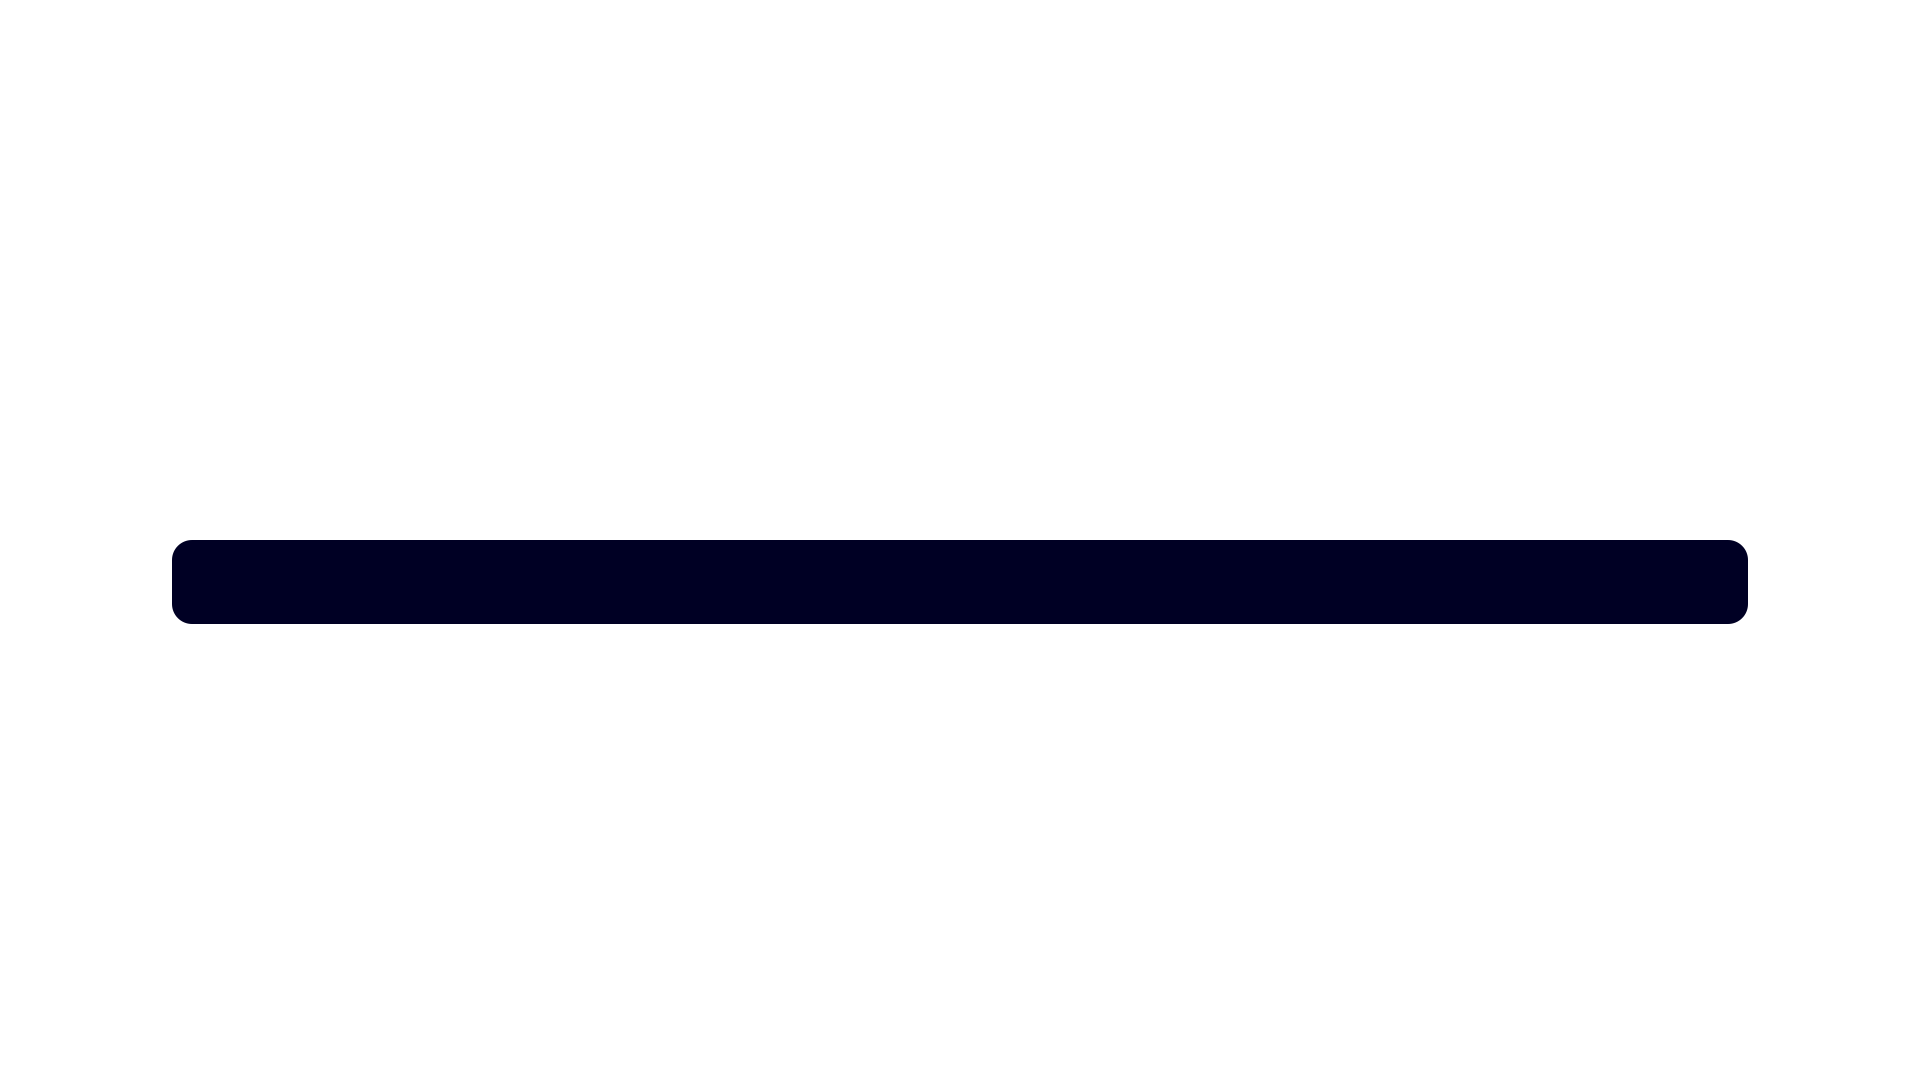
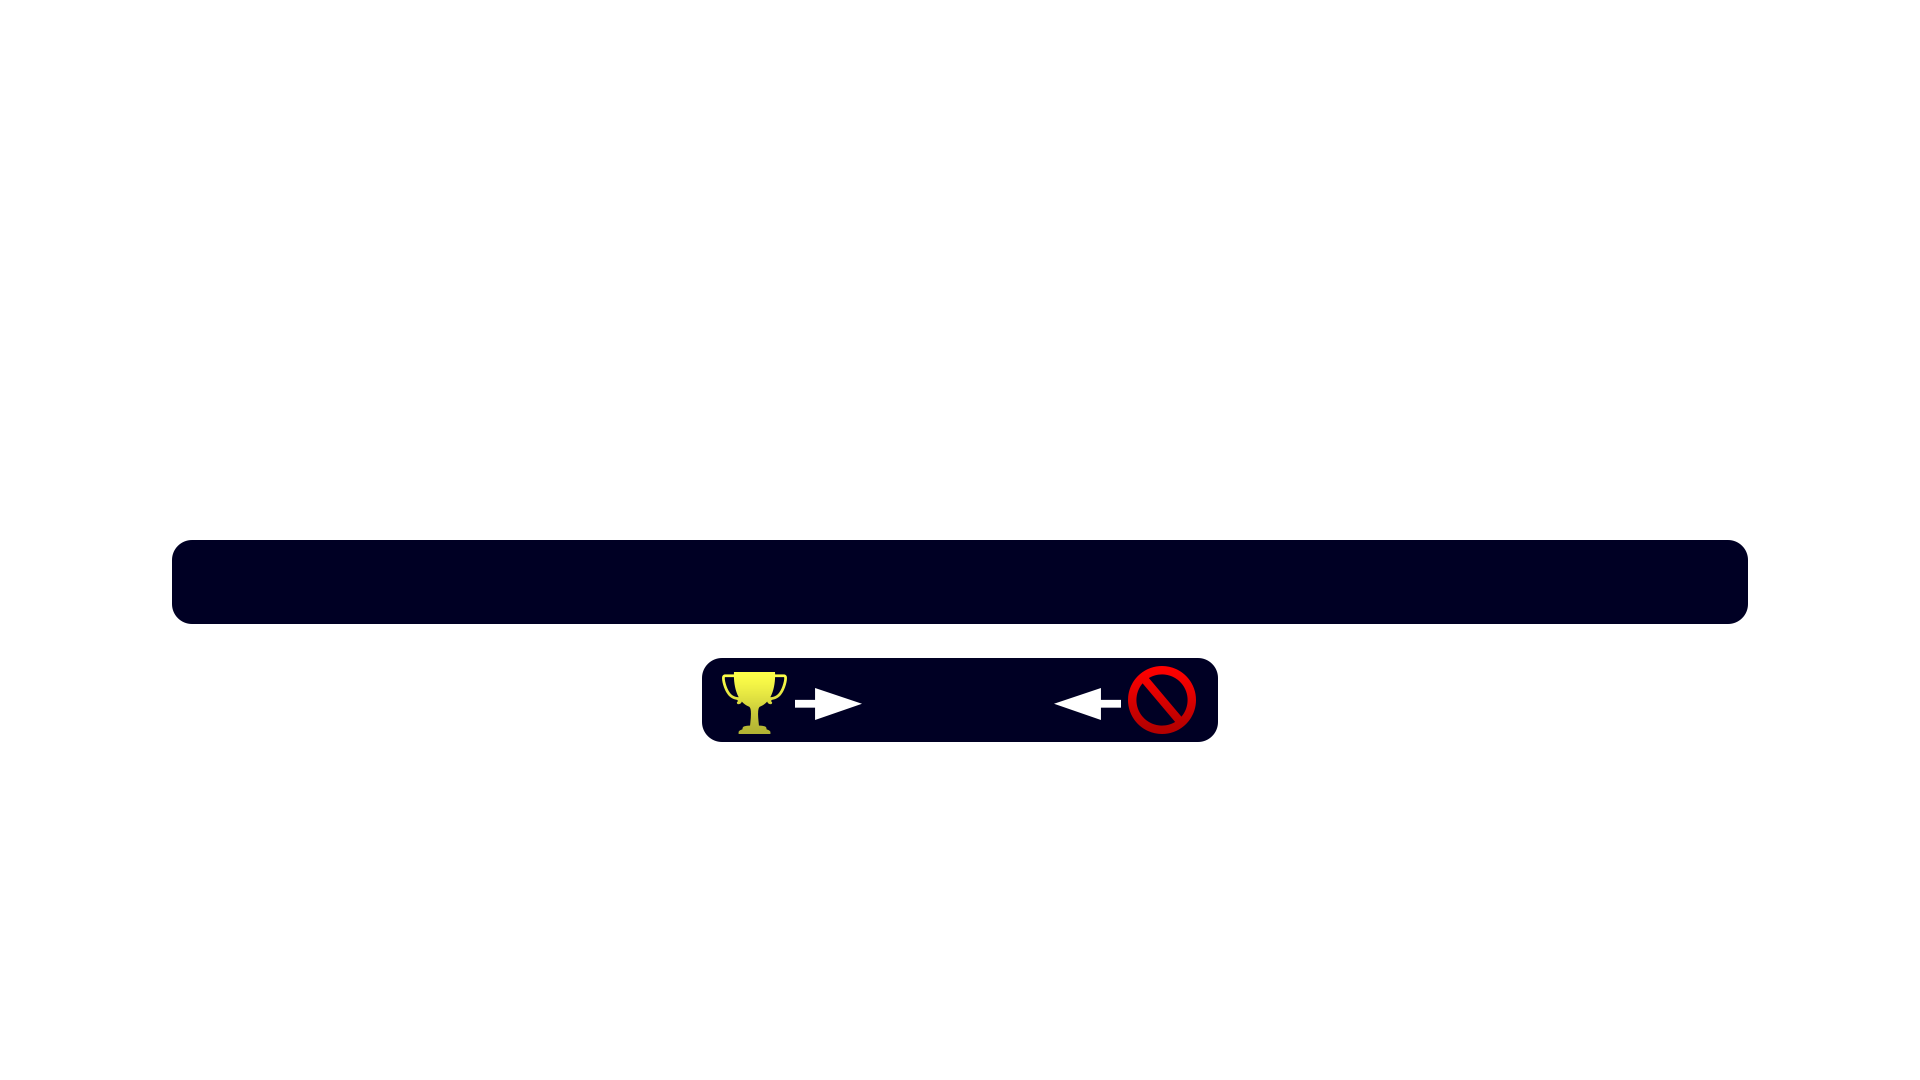
Add files via upload

Changed region(s): [[0.3438, 0.6111, 0.6562, 0.7028]]

diff --git a/index.html b/index.html
@@ -34,7 +34,7 @@ window.applicationCache.oncached = window.applicationCache.onupdateready = funct
 </script>
 <div style="background-color:#000024;color:white;font-size:20px;text-align:center;">
 <h1 style='font-size:40px;margin:0;text-shadow: 4px 4px 4px #f3c108'> SLEIRSGOEVY 6.72 HOST </h1><i>
-<h3 style='font-size:26px;margin:0;text-shadow: 4px 4px 4px #de0029'>Last update file published by Sleirsgoevy for 6.72</h3>
+<h3 style='font-size:26px;margin:0;text-shadow: 4px 4px 4px #de0029'>Last update file published by Sleirsgoevy for 6.72 PS4</h3>
 <hr>
 </div>
     <div id="english" class="language" style="display: block">
@@ -42,7 +42,8 @@ window.applicationCache.oncached = window.applicationCache.onupdateready = funct
         <p><b>In case you're dumb: this ONLY works on FW 6.72. If you are on 7.00-7.02, go
                 <a href="https://sleirsgoevy.github.io/ps4jb/index702.html">here</a>. If you
                 are on 7.50-7.55, go <a href="https://sleirsgoevy.github.io/ps4jb2/75x/">here</a>.
-                If you are on a higher firmware (e.g. 8.00), your console CAN'T BE HACKED yet.</b></p>
+                <font color="red">If you are on a higher firmware (e.g. 9.00), you can test the Webkit from
+				<a href="https://sleirsgoevy.github.io/ps4jb2/75x/">here (soon)</a></font>.</b></p>
         <ol>
             <li>Click on <b>MIRA</b>, <b>HEN</b> or <b>GOLDHEN</b>, depending on your personal habits. In about 20 seconds you'll get an
                 alert saying <b>"You're all set!"</b>, followed by <b>"There is not enough free system memory"</b>. This means that everything
@@ -75,8 +76,17 @@ window.applicationCache.oncached = window.applicationCache.onupdateready = funct
 <a href="payload.html"><img src="images/netcatL.png" id="Image8" alt=""></a>
 <a href="payload.html#p0=mira/mira.js"><img src="images/netcat.png" id="Image9" alt=""></a>
 </div>
-<div style="background-color:#000024;color:white;position:fixed;left:0;bottom:-10px;width:100%;text-align:center;">
+
+<div style="position:fixed;left:0;bottom:168px;width:100%;text-align:center;color:white;font-size:40px;"> <span id=passCounter></span> &nbsp; : &nbsp; <span id=failCounter></span></div>
+
+<div style="background-color:#000024;color:white;position:fixed;left:0;bottom:-15px;width:100%;text-align:center;">
 <i><font id="progress" style='font-size:16px;margin:0;text-shadow: 4px 4px 4px #de0029'>SLEIRSGOEVY PS4EXPLOIT HOST 6.72 BY CHRONOSS</i></font></p>
 </div>
+<script>
+if (localStorage.passcount == null) localStorage.passcount=0;
+window.passCounter.innerHTML=localStorage.passcount;
+if (localStorage.failcount == null) localStorage.failcount=0;
+window.failCounter.innerHTML=localStorage.failcount;
+</script>
 </body>
 </html>

diff --git a/jb.js b/jb.js
@@ -56847,3 +56847,15 @@ var printf_ans = read_mem_as_string(printf_buf, printf_buf_end-printf_buf);
 var _ = malloc_nogc.pop();
 var _ = malloc_nogc.pop();
 var _ = malloc_nogc.pop();
+
+if (main_ret == 179 || main_ret == 0) {
+	localStorage.passcount = ++localStorage.passcount;window.passCounter.innerHTML=localStorage.passcount;
+	window.msgs.innerHTML="<h1 style='font-size:25px;text-align:center;'>Exploit Loaded ✔ Now Loading HEN ...</h1>";
+    setTimeout(function(){
+    plLoader();
+    },1000);
+} 
+else {
+	localStorage.failcount = ++localStorage.failcount;window.failCounter.innerHTML=localStorage.failcount;
+	window.msgs.innerHTML="<h1 style='font-size:25px;text-align:center;'>Jailbreak failed! - Reboot your PS4 and try again.</h1>";
+}
